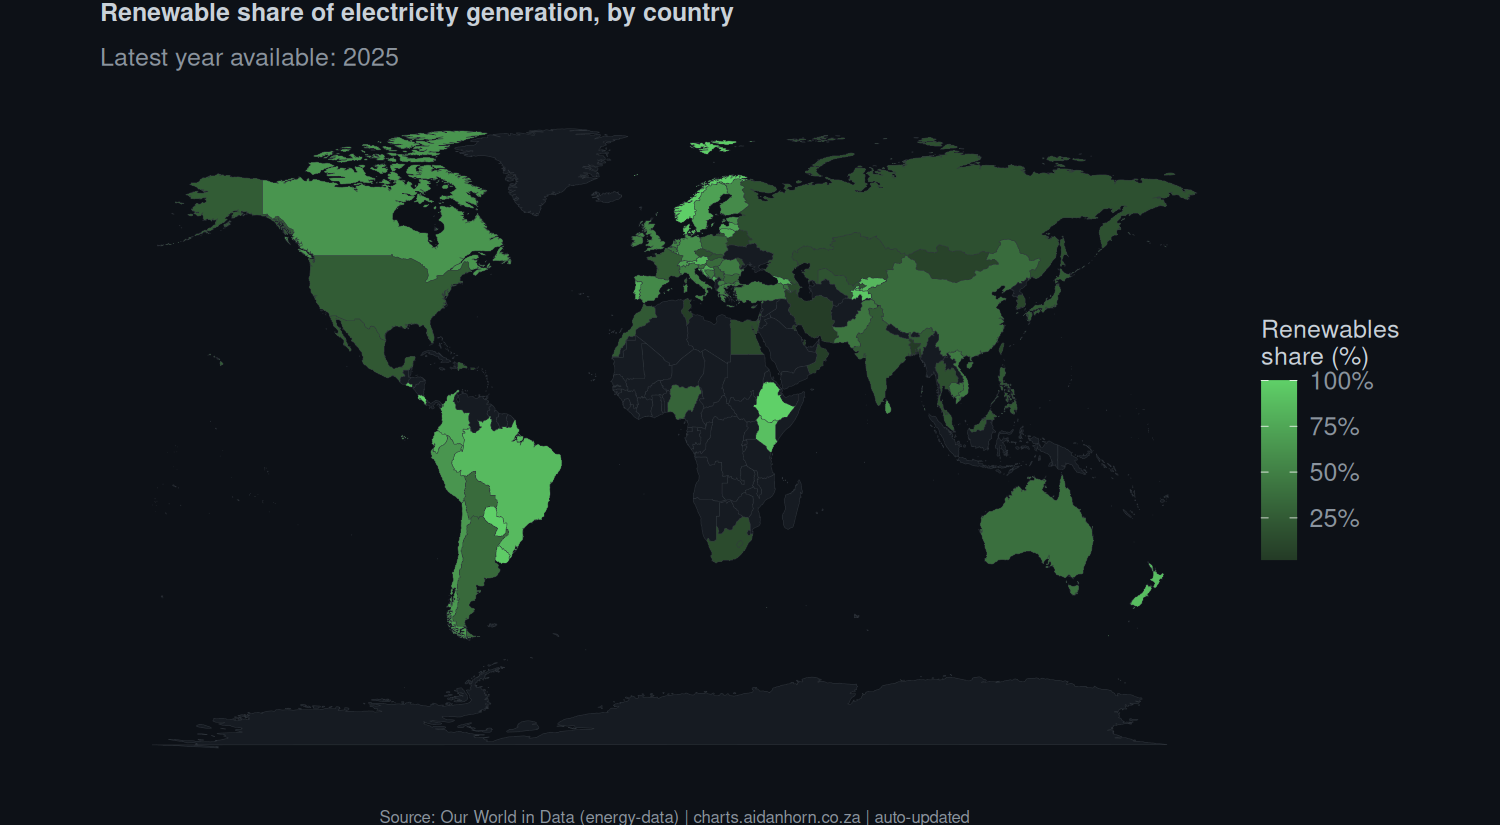
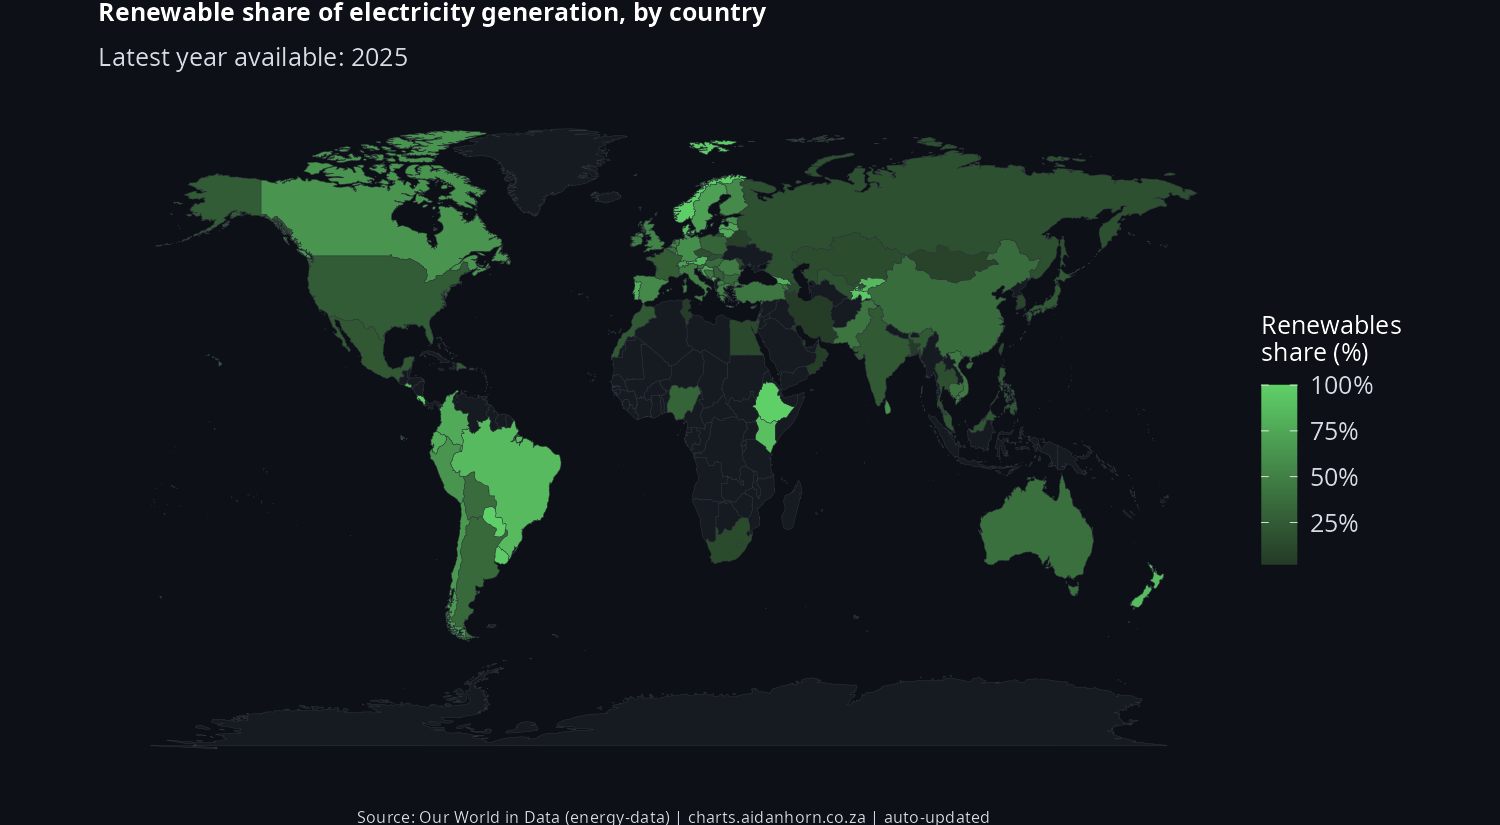
Redesign as full-screen pages with nav, high-contrast dark theme
Each pillar now gets its own full-screen page (crypto/climate/energy/
real-estate/commodities/traffic.html) with a shared top nav bar, instead
of a single scrolling page with small stacked images. Theme text bumped
to near-white/light-grey for higher contrast, and legend titles get more
bottom margin. Updated README to reflect current build status.

diff --git a/index.html b/index.html
@@ -5,63 +5,32 @@
 <title>Aidan Horn — Data Charts</title>
 <meta name="viewport" content="width=device-width, initial-scale=1">
 <meta name="color-scheme" content="dark">
-<style>
-  :root {
-    --bg: #0d1117;
-    --panel: #161b22;
-    --border: #30363d;
-    --text: #c9d1d9;
-    --text-dim: #8b949e;
-    --link: #58a6ff;
-  }
-  html { background: var(--bg); }
-  body { font-family: -apple-system, Segoe UI, Helvetica, Arial, sans-serif; max-width: 900px; margin: 2rem auto; padding: 0 1rem; background: var(--bg); color: var(--text); }
-  a { color: var(--link); }
-  h1 { font-size: 1.6rem; }
-  p.intro { color: var(--text-dim); }
-  .pillar { margin: 2.5rem 0; }
-  .pillar h2 { font-size: 1.2rem; border-bottom: 1px solid var(--border); padding-bottom: 0.3rem; }
-  .pillar img { max-width: 100%; border: 1px solid var(--border); border-radius: 4px; background: var(--panel); }
-  .pillar .status { color: var(--text-dim); font-size: 0.9rem; }
-  footer { color: var(--text-dim); font-size: 0.85rem; margin-top: 3rem; border-top: 1px solid var(--border); padding-top: 1rem; }
-</style>
+<link rel="stylesheet" href="assets/style.css">
 </head>
-<body>
-<h1>Data Charts</h1>
-<p class="intro">A small set of automated, self-updating charts across a few domains I find genuinely interesting. Each one pulls from a real public data source on its own schedule — see <a href="https://github.com/aidanhorn/charts">the source</a> for exactly how.</p>
-
-<div class="pillar">
-  <h2>Crypto — Bitcoin (BTC/USD)</h2>
-  <img src="assets/crypto/btc.png" alt="Bitcoin price chart, log scale">
-</div>
-
-<div class="pillar">
-  <h2>Energy — generation mix by country</h2>
-  <img src="assets/energy/generation_mix.png" alt="World map of renewable share of electricity generation by country">
-</div>
-
-<div class="pillar">
-  <h2>Climate — global air quality</h2>
-  <img src="assets/climate/air_quality.png" alt="World map of PM2.5 air quality readings">
-</div>
-
-<div class="pillar">
-  <h2>Real estate — global house-price growth</h2>
-  <img src="assets/real_estate/house_prices.png" alt="Real house-price growth by country, year-on-year">
-</div>
-
-<div class="pillar">
-  <h2>Commodities — oil (Brent/WTI)</h2>
-  <img src="assets/commodities/oil_brent.png" alt="Brent crude oil price chart">
-</div>
-
-<div class="pillar">
-  <h2>Traffic — global congestion ranking</h2>
-  <p class="status">Coming soon.</p>
-</div>
-
-<footer>
-  <p>Part of <a href="https://www.aidanhorn.co.za">aidanhorn.co.za</a>.</p>
-</footer>
+<body class="landing">
+<nav>
+  <a class="home" href="index.html">Data Charts</a>
+  <a href="crypto.html">Crypto</a>
+  <a href="climate.html">Climate</a>
+  <a href="energy.html">Energy</a>
+  <a href="real-estate.html">Real estate</a>
+  <a href="commodities.html">Commodities</a>
+  <a href="traffic.html">Traffic</a>
+</nav>
+<main>
+  <h1>Data Charts</h1>
+  <p class="intro">A small set of automated, self-updating charts across a few domains I find genuinely interesting. Each one pulls from a real public data source on its own schedule — see <a href="https://github.com/aidanhorn/charts">the source</a> for exactly how.</p>
+  <ul class="pillar-list">
+    <li><a href="crypto.html">Crypto — Bitcoin (BTC/USD)</a></li>
+    <li><a href="climate.html">Climate — global air quality</a></li>
+    <li><a href="energy.html">Energy — generation mix by country</a></li>
+    <li><a href="real-estate.html">Real estate — global house-price growth</a></li>
+    <li><a href="commodities.html">Commodities — oil (Brent/WTI)</a></li>
+    <li><a href="traffic.html">Traffic — global congestion ranking</a></li>
+  </ul>
+  <footer>
+    <p>Part of <a href="https://www.aidanhorn.co.za">aidanhorn.co.za</a>.</p>
+  </footer>
+</main>
 </body>
 </html>

diff --git a/assets/style.css b/assets/style.css
@@ -1,0 +1,97 @@
+:root {
+  --bg: #0d1117;
+  --panel: #161b22;
+  --border: #30363d;
+  --text: #ffffff;
+  --text-dim: #d5dbe2;
+  --link: #58a6ff;
+  --nav-height: 56px;
+}
+* { box-sizing: border-box; }
+html, body { height: 100%; margin: 0; }
+body {
+  font-family: -apple-system, Segoe UI, Helvetica, Arial, sans-serif;
+  background: var(--bg);
+  color: var(--text);
+}
+nav {
+  position: fixed;
+  top: 0; left: 0; right: 0;
+  height: var(--nav-height);
+  display: flex;
+  align-items: center;
+  gap: 0.25rem;
+  padding: 0 0.75rem;
+  background: var(--panel);
+  border-bottom: 1px solid var(--border);
+  overflow-x: auto;
+  white-space: nowrap;
+  z-index: 10;
+}
+nav a {
+  color: var(--text-dim);
+  text-decoration: none;
+  font-size: 0.95rem;
+  padding: 0.5rem 0.9rem;
+  border-radius: 6px;
+}
+nav a:hover { background: rgba(255,255,255,0.08); color: var(--text); }
+nav a.active { background: var(--link); color: #0d1117; font-weight: 600; }
+nav a.home { color: var(--text); font-weight: 700; margin-right: 0.5rem; }
+
+main {
+  padding-top: var(--nav-height);
+  height: 100%;
+  display: flex;
+  flex-direction: column;
+  align-items: center;
+  justify-content: center;
+}
+main img {
+  max-width: calc(100vw - 2rem);
+  max-height: calc(100vh - var(--nav-height) - 2rem);
+  object-fit: contain;
+  border: 1px solid var(--border);
+  border-radius: 6px;
+  background: var(--panel);
+  margin: 1rem;
+}
+.status {
+  color: var(--text-dim);
+  font-size: 1.1rem;
+  text-align: center;
+  padding: 2rem;
+}
+
+/* Landing page (index) uses a scrollable list instead of the full-screen layout */
+body.landing main {
+  display: block;
+  height: auto;
+  min-height: 100%;
+  max-width: 700px;
+  margin: 0 auto;
+  padding: calc(var(--nav-height) + 1.5rem) 1rem 2rem;
+}
+body.landing h1 { font-size: 1.6rem; }
+body.landing p.intro { color: var(--text-dim); }
+body.landing ul.pillar-list { list-style: none; padding: 0; }
+body.landing ul.pillar-list li { margin: 0.6rem 0; }
+body.landing ul.pillar-list a {
+  display: block;
+  padding: 0.9rem 1.1rem;
+  background: var(--panel);
+  border: 1px solid var(--border);
+  border-radius: 6px;
+  color: var(--text);
+  text-decoration: none;
+  font-size: 1.05rem;
+}
+body.landing ul.pillar-list a:hover { border-color: var(--link); }
+body.landing footer {
+  color: var(--text-dim);
+  font-size: 0.85rem;
+  margin-top: 2rem;
+  border-top: 1px solid var(--border);
+  padding-top: 1rem;
+}
+body.landing footer a { color: var(--link); }

diff --git a/traffic.html b/traffic.html
@@ -1,0 +1,24 @@
+<!doctype html>
+<html lang="en">
+<head>
+<meta charset="utf-8">
+<title>Traffic — Data Charts</title>
+<meta name="viewport" content="width=device-width, initial-scale=1">
+<meta name="color-scheme" content="dark">
+<link rel="stylesheet" href="assets/style.css">
+</head>
+<body>
+<nav>
+  <a class="home" href="index.html">Data Charts</a>
+  <a href="crypto.html">Crypto</a>
+  <a href="climate.html">Climate</a>
+  <a href="energy.html">Energy</a>
+  <a href="real-estate.html">Real estate</a>
+  <a href="commodities.html">Commodities</a>
+  <a href="traffic.html" class="active">Traffic</a>
+</nav>
+<main>
+  <p class="status">Coming soon — TomTom's ranking data isn't accessible via a plain public endpoint (client-rendered, no free API confirmed yet).</p>
+</main>
+</body>
+</html>

diff --git a/energy.html b/energy.html
@@ -1,0 +1,24 @@
+<!doctype html>
+<html lang="en">
+<head>
+<meta charset="utf-8">
+<title>Energy — Data Charts</title>
+<meta name="viewport" content="width=device-width, initial-scale=1">
+<meta name="color-scheme" content="dark">
+<link rel="stylesheet" href="assets/style.css">
+</head>
+<body>
+<nav>
+  <a class="home" href="index.html">Data Charts</a>
+  <a href="crypto.html">Crypto</a>
+  <a href="climate.html">Climate</a>
+  <a href="energy.html" class="active">Energy</a>
+  <a href="real-estate.html">Real estate</a>
+  <a href="commodities.html">Commodities</a>
+  <a href="traffic.html">Traffic</a>
+</nav>
+<main>
+  <img src="assets/energy/generation_mix.png" alt="World map of renewable share of electricity generation by country">
+</main>
+</body>
+</html>

diff --git a/real-estate.html b/real-estate.html
@@ -1,0 +1,24 @@
+<!doctype html>
+<html lang="en">
+<head>
+<meta charset="utf-8">
+<title>Real estate — Data Charts</title>
+<meta name="viewport" content="width=device-width, initial-scale=1">
+<meta name="color-scheme" content="dark">
+<link rel="stylesheet" href="assets/style.css">
+</head>
+<body>
+<nav>
+  <a class="home" href="index.html">Data Charts</a>
+  <a href="crypto.html">Crypto</a>
+  <a href="climate.html">Climate</a>
+  <a href="energy.html">Energy</a>
+  <a href="real-estate.html" class="active">Real estate</a>
+  <a href="commodities.html">Commodities</a>
+  <a href="traffic.html">Traffic</a>
+</nav>
+<main>
+  <img src="assets/real_estate/house_prices.png" alt="Real house-price growth by country, year-on-year">
+</main>
+</body>
+</html>

diff --git a/climate.html b/climate.html
@@ -1,0 +1,24 @@
+<!doctype html>
+<html lang="en">
+<head>
+<meta charset="utf-8">
+<title>Climate — Data Charts</title>
+<meta name="viewport" content="width=device-width, initial-scale=1">
+<meta name="color-scheme" content="dark">
+<link rel="stylesheet" href="assets/style.css">
+</head>
+<body>
+<nav>
+  <a class="home" href="index.html">Data Charts</a>
+  <a href="crypto.html">Crypto</a>
+  <a href="climate.html" class="active">Climate</a>
+  <a href="energy.html">Energy</a>
+  <a href="real-estate.html">Real estate</a>
+  <a href="commodities.html">Commodities</a>
+  <a href="traffic.html">Traffic</a>
+</nav>
+<main>
+  <img src="assets/climate/air_quality.png" alt="World map of PM2.5 air quality readings">
+</main>
+</body>
+</html>

diff --git a/commodities.html b/commodities.html
@@ -1,0 +1,24 @@
+<!doctype html>
+<html lang="en">
+<head>
+<meta charset="utf-8">
+<title>Commodities — Data Charts</title>
+<meta name="viewport" content="width=device-width, initial-scale=1">
+<meta name="color-scheme" content="dark">
+<link rel="stylesheet" href="assets/style.css">
+</head>
+<body>
+<nav>
+  <a class="home" href="index.html">Data Charts</a>
+  <a href="crypto.html">Crypto</a>
+  <a href="climate.html">Climate</a>
+  <a href="energy.html">Energy</a>
+  <a href="real-estate.html">Real estate</a>
+  <a href="commodities.html" class="active">Commodities</a>
+  <a href="traffic.html">Traffic</a>
+</nav>
+<main>
+  <img src="assets/commodities/oil_brent.png" alt="Brent crude oil price chart">
+</main>
+</body>
+</html>

diff --git a/crypto.html b/crypto.html
@@ -1,0 +1,24 @@
+<!doctype html>
+<html lang="en">
+<head>
+<meta charset="utf-8">
+<title>Crypto — Data Charts</title>
+<meta name="viewport" content="width=device-width, initial-scale=1">
+<meta name="color-scheme" content="dark">
+<link rel="stylesheet" href="assets/style.css">
+</head>
+<body>
+<nav>
+  <a class="home" href="index.html">Data Charts</a>
+  <a href="crypto.html" class="active">Crypto</a>
+  <a href="climate.html">Climate</a>
+  <a href="energy.html">Energy</a>
+  <a href="real-estate.html">Real estate</a>
+  <a href="commodities.html">Commodities</a>
+  <a href="traffic.html">Traffic</a>
+</nav>
+<main>
+  <img src="assets/crypto/btc.png" alt="Bitcoin price chart, log scale">
+</main>
+</body>
+</html>

diff --git a/README.md b/README.md
@@ -2,19 +2,21 @@
 
 Source for [charts.aidanhorn.co.za](https://charts.aidanhorn.co.za) — a small set of automated, self-updating charts across a few genuinely interesting data domains, each pulling from a real public API on its own schedule via GitHub Actions.
 
+Site is a set of full-screen pages (one per pillar) with a top nav bar for navigation — see `index.html` (landing page) and `crypto.html`/`climate.html`/`energy.html`/`real-estate.html`/`commodities.html`/`traffic.html`. Shared styling in `assets/style.css`, shared dark/high-contrast ggplot2 theme in `scripts/_theme.R`.
+
 ## Pillars
 
-| Pillar | Script | Source | Cadence |
-|---|---|---|---|
-| Crypto (BTC/USD, log scale) | `scripts/crypto_btc.R` | [CoinGecko](https://www.coingecko.com/en/api) (free tier) | Daily |
-| Climate (air quality) | _not yet built_ | [OpenAQ](https://openaq.org/) | Near-real-time |
-| Energy (generation mix) | _not yet built_ | [Ember](https://ember-energy.org/) | Annual/monthly |
-| Real estate (house prices) | _not yet built_ | [OECD](https://data-explorer.oecd.org/) | Quarterly |
-| Commodities (oil) | _not yet built_ | TBD | Daily |
-| Traffic (congestion) | _not yet built_ | [TomTom Traffic Index](https://www.tomtom.com/traffic-index/) | Annual |
+| Pillar | Script | Source | Cadence | Status |
+|---|---|---|---|---|
+| Crypto (BTC/USD, log scale) | `scripts/crypto_btc.R` | [CoinGecko](https://www.coingecko.com/en/api) (free tier) | Daily | Live |
+| Climate (global PM2.5 air quality) | `scripts/climate_air_quality.R` | [OpenAQ](https://openaq.org/) v3 API (needs a free `OPENAQ_API_KEY` repo secret) | Daily | Live |
+| Commodities (Brent crude oil) | `scripts/commodities_oil.R` | [FRED](https://fred.stlouisfed.org/) (free CSV, no key) | Daily | Live |
+| Energy (generation mix by country) | `scripts/energy_generation_mix.R` | [Our World in Data](https://github.com/owid/energy-data) energy dataset (Ember's own site blocks programmatic access) | Monthly | Live |
+| Real estate (real house-price growth, major markets) | `scripts/real_estate_house_prices.R` | [OECD](https://data-explorer.oecd.org/) Analytical House Prices Indicators (SDMX REST API, no key) | Quarterly | Live |
+| Traffic (global congestion) | _not built_ | [TomTom Traffic Index](https://www.tomtom.com/traffic-index/) | Annual | Deferred — ranking data is client-rendered with no accessible free endpoint found yet; lowest priority pillar |
 
-All data sources are free/public — no paid feeds. See `.github/workflows/update-charts.yml` for the scheduling.
+All data sources are free/public — no paid feeds. See `.github/workflows/update-charts.yml` for the scheduling (crypto/climate/commodities run daily; energy/real-estate run monthly; `workflow_dispatch` runs everything for manual testing).
 
 ## Why this exists
 
-Built as a deliberately separate project, chosen to be orthogonal to Aidan's day job at Codera Analytics — nothing here overlaps with EconData or SA official statistics.
+Built as a deliberately separate project, chosen to be orthogonal to Aidan's day job at Codera Analytics — nothing here overlaps with EconData or SA official statistics. FX/currency markets were considered and ruled out entirely for the same reason (Codera already runs its own FX pipeline).
